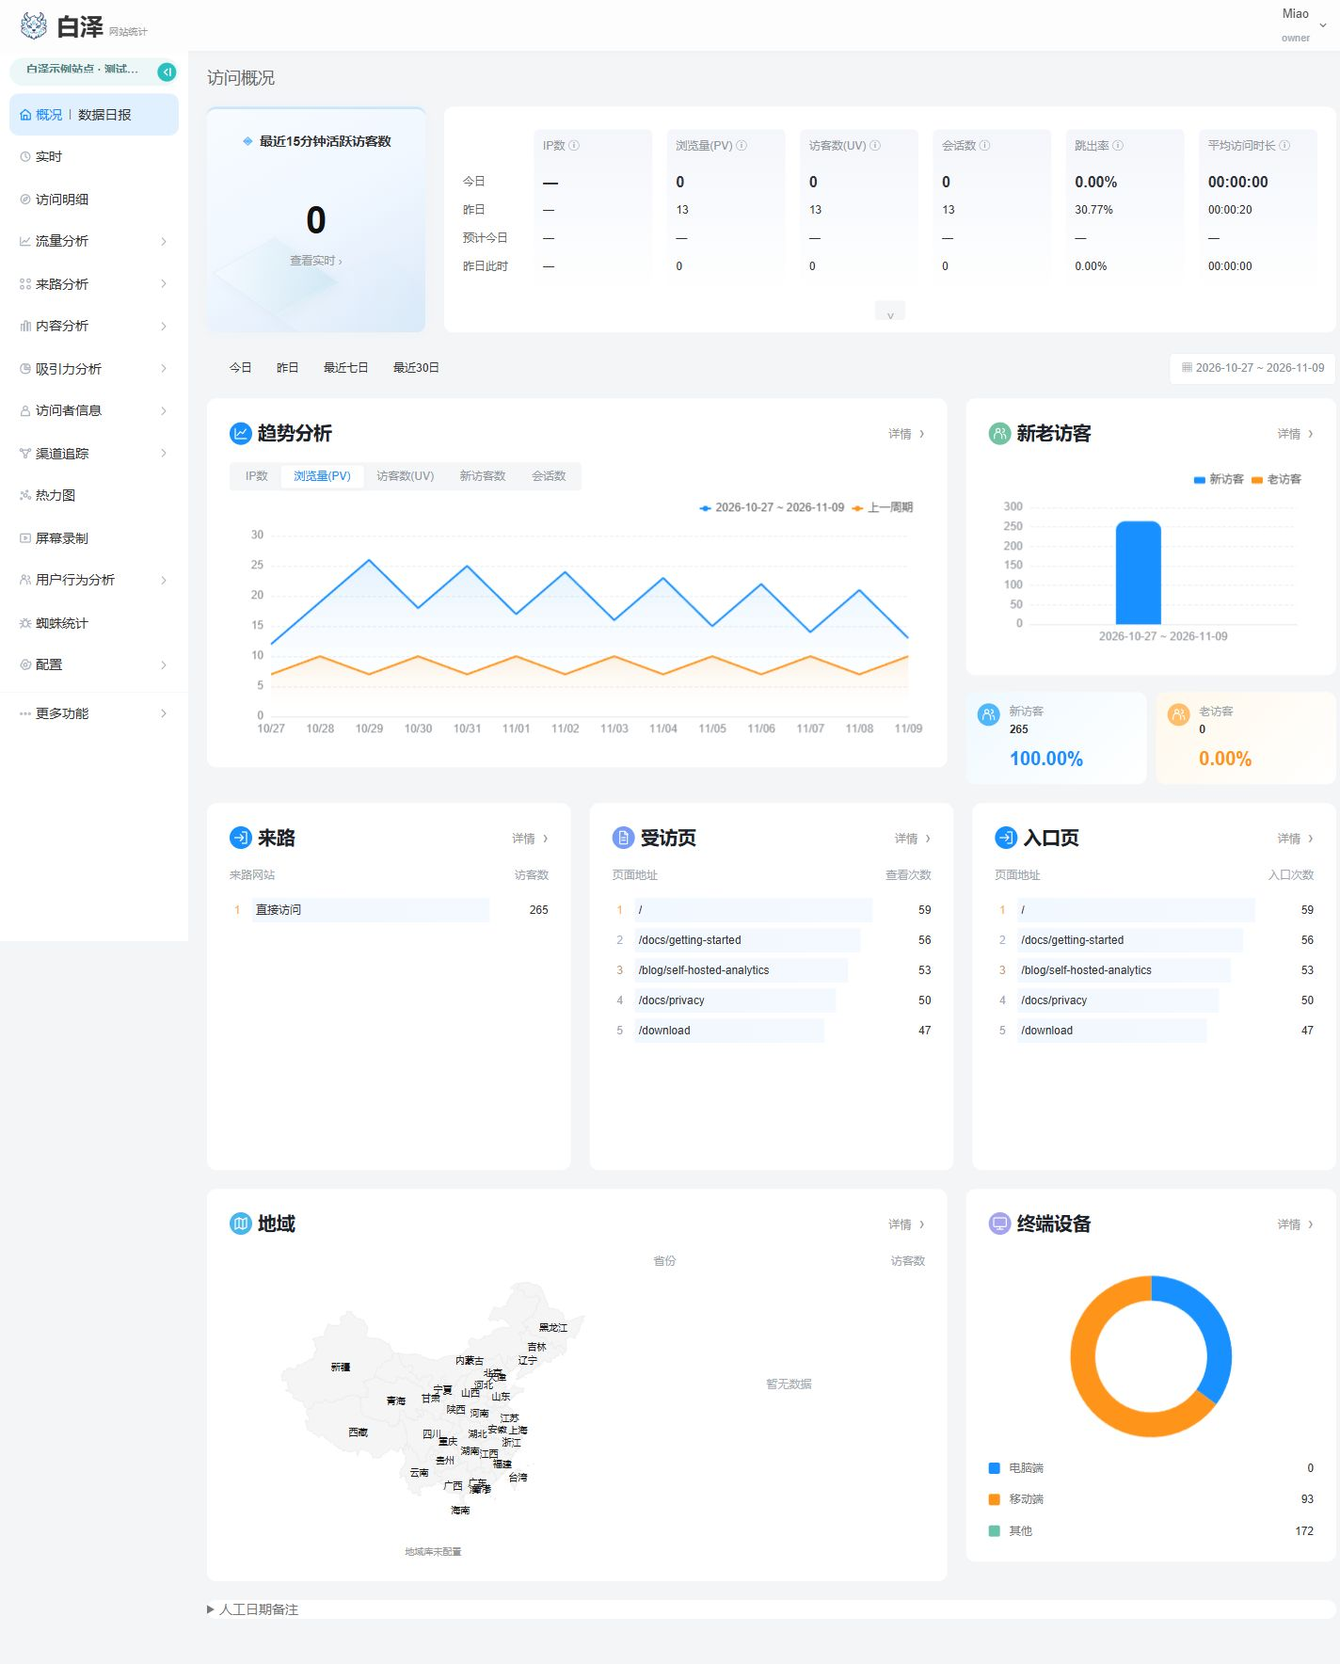
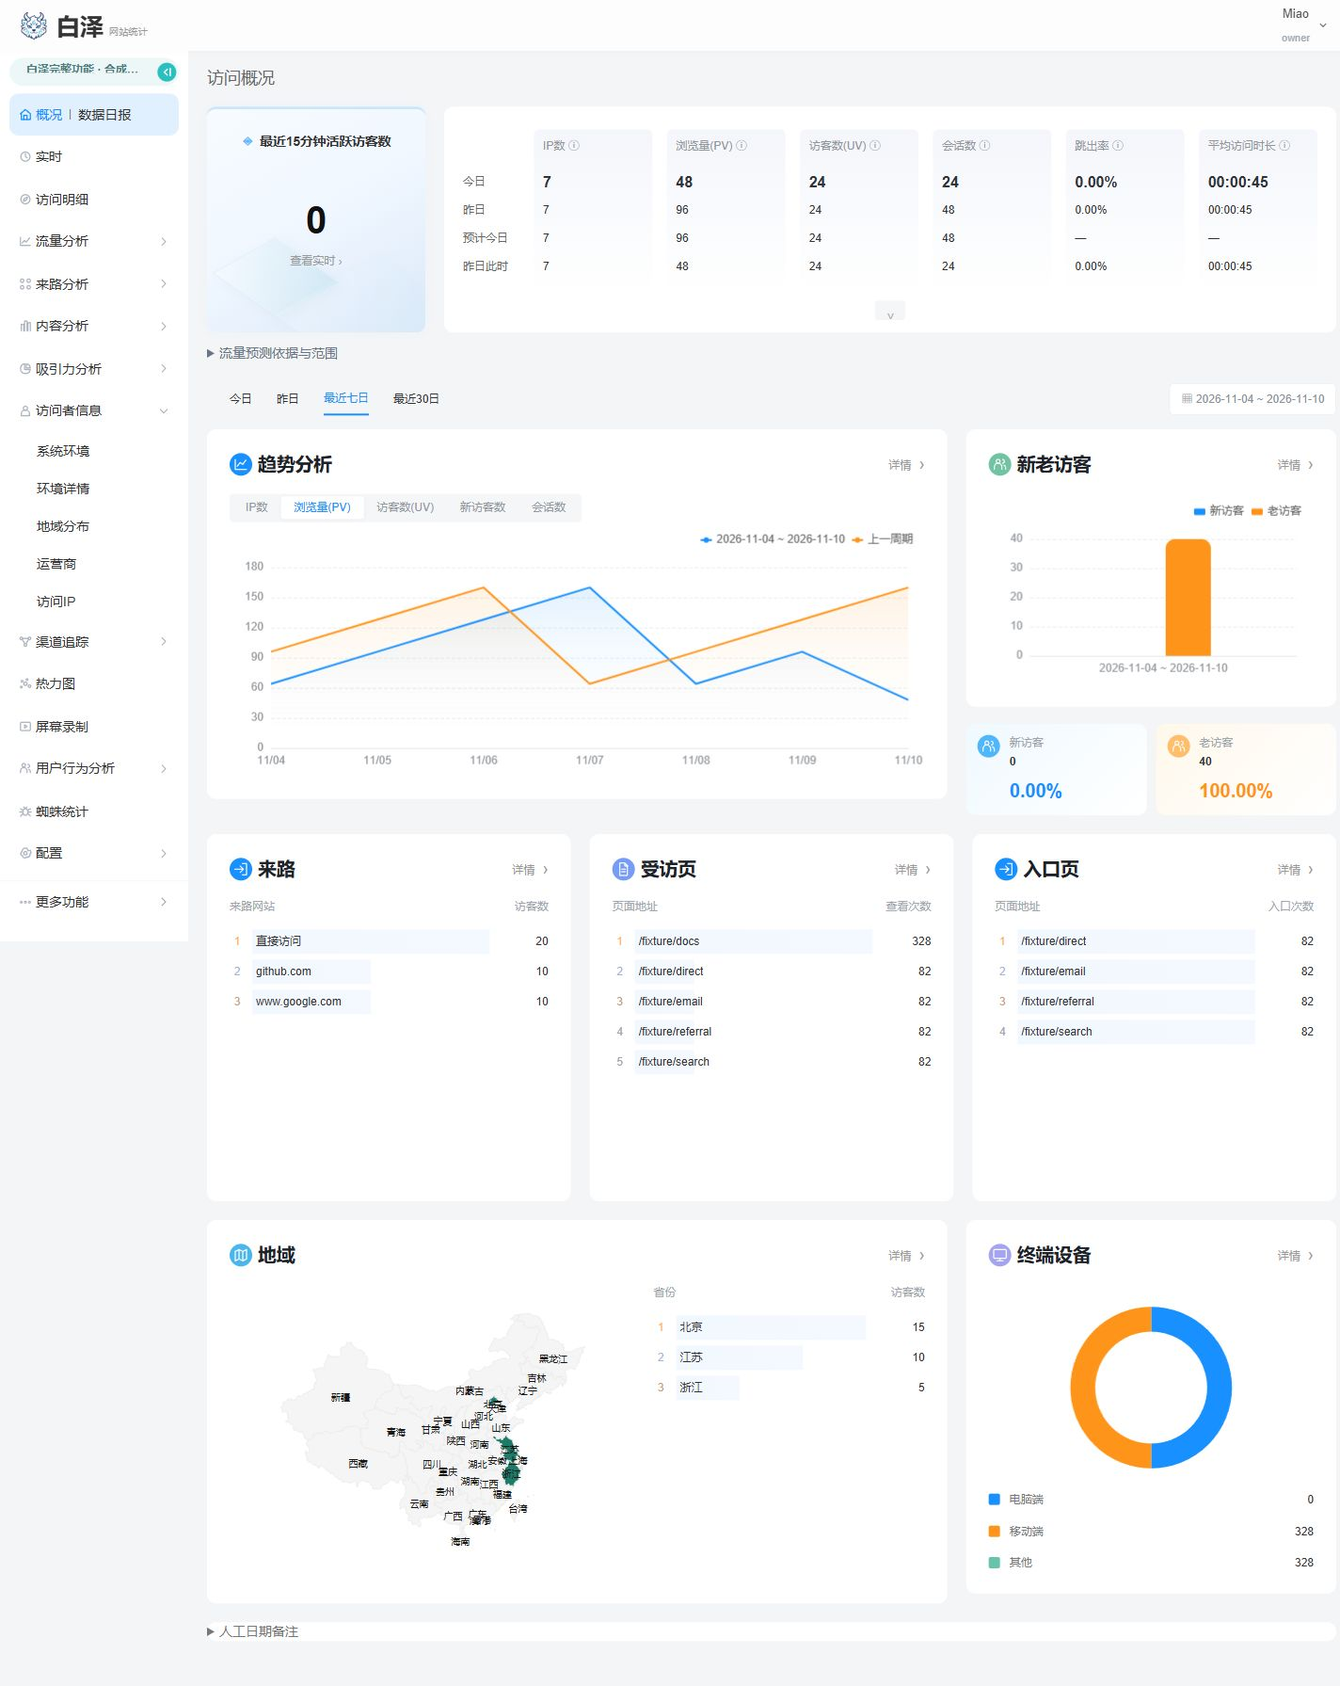
docs: record NAS traffic acceptance and refresh dashboard screenshots

diff --git a/docs/validation/51LA_COMPLETION_NAS_20261110.md b/docs/validation/51LA_COMPLETION_NAS_20261110.md
@@ -1,0 +1,133 @@
+# 流量功能补全：NAS 验证记录
+
+日期：2026-11-10，时区 Asia/Shanghai。对象为 NAS SSD 上的 Node 标准版测试实例。本记录对应独立 IP、离线地域与运营商、流量预测、事件定义和蜘蛛日志补全；[上一轮验证记录](51LA_NAS_20261110.md)保留原版本的事实，不作为本轮结果。
+
+应用、PostgreSQL、Redis 数据及 Docker 数据目录均在 `/volume2`。只读反向块设备核查确认该卷经 LVM、`md2` 和 `nvme1n1p2` 位于 **ZHITAI TiPlus7100s 1TB NVMe SSD**，`ROTA=0`，文件系统 ext4。修改前已生成数据库与应用状态备份，数据库备份目录可正常读取。
+
+## 数据来源与隔离
+
+新增一个明确命名为“合成验收（socket 模拟）”的独立站点。测试通过实际 `registerCollect` 入口、Fastify `inject` 的 `remoteAddress` 和已安装的离线地域库写入 PostgreSQL，由运行中的正常聚合流程生成统计。没有替换报表返回，也没有给已有两个站点写入测试事件。
+
+这是模拟连接地址的功能验收，不是真实互联网访客。测试没有访问样本公网 IP；这些 IP 的地域是当前离线库的查询结果，不是对实际访客位置的确认。采集实例使用 `trustProxy=false`，不启用受信代理；同时传入的伪造转发头不影响采集地址。独立采集进程不启动 HTTP 监听、迁移或额外后台 worker。
+
+| 合成数据 | 实际保存 / 独立预期 |
+| --- | ---: |
+| 日期 | 2026-10-27 至 2026-11-10，14 个完整历史日加今日 |
+| 全部事件 | 2,728 |
+| 浏览量 PV | 1,552 |
+| 访客 UV | 40 |
+| 独立 IP | 7 |
+| 会话 | 776 |
+| 今日 PV / UV / IP / 会话 | 48 / 24 / 7 / 24 |
+| 自定义事件 `download_fixture` | 400 |
+
+UV、IP 和维度期望值从输入事件独立按集合计算，不通过累加各小时或各日 UV/IP 得到。样本含 IPv4、IPv6，以及映射 IPv4 的 IPv6 表示；同一规范地址合并为一个 IP。
+
+## 第一轮实际接口检查
+
+执行时间约为 08:25，首轮应用镜像前缀为 `0f3a5d6e`。25 项定向检查中 21 项通过、4 项失败。4 项失败均涉及通用 `stats` 的 `ips` 未返回：全区间、上一周期、渠道过滤，以及蜘蛛写入前后的访客统计核对。独立流量报表和概况已返回精确 IP；后续修复同时覆盖旧汇总与已发布事实两种统计来源。最终部署的 26 项 HTTP 重跑已全部通过，包含这四项首次失败用例。
+
+本轮首次检查中已通过的内容包括：
+
+- 离线 IPv4 / IPv6 地域库就绪；国家、省、市与运营商按实际库结果展示。未知运营商保留未知，覆盖状态如实返回 `partial`。
+- 全区间与逐日 PV、UV、IP、会话，以及来源、地域、运营商等七组维度，与独立期望一致。
+- 访问明细的 IP、城市、运营商和访客筛选；规范化 IP 合并；接口不返回内部 HMAC 身份。
+- 五种维度的指定标签趋势；等长周期比较接口；概况今日、昨日、昨日同期边界。
+- 事件定义新增、改名、删除、重新创建和跨登录持久化。显示名称改变后，采集标识仍为 `download_fixture`，历史 400 条事件不变；删除定义不删除事件。
+- 只读令牌可读目标站点，不能创建、修改或删除事件定义，不能跨站或修改地域设置。测试令牌在结束后撤销，撤销后访问返回 401。
+
+预测在 08:25 的已验证结果为 **96 PV、24 UV、7 IP、48 会话**，使用 14 个完整历史日，`coverage=1`。返回算法为 `historical_remaining_v1`，与独立输入计算结果一致。它验证算法执行和数据来源，不验证预测对未来真实流量的准确率；参考区间为 `heuristic_not_calibrated`，不是经过校准的置信区间，也不是 51.LA 未公开的算法。
+
+交叉检查另外发现：分别预测四项指标时，不同同期增长倍数可能使预计 UV、IP 或会话数超过预计 PV。修复对预计值和区间上下限施加一致的 PV 上限，同时保持不低于今日实测值；两项新增单元回归覆盖点估计及仅区间越界，相关预测与概况测试 43 项通过。普通 NAS 样本的预测结果不受这项边界修正影响。
+
+概况日历与预测训练已统一取自然日最早可表示日界，和前端日期选择一致。Havana 的重复午夜包含第一个小时；昨日同期若重复则选较早时刻，若不存在则向前经过夏令时间隙。新增 helper 与 Fastify 路由回归覆盖 Havana 首个午夜小时、纽约重复及跳过的同期时间；预测与概况两文件最终 **48 项通过**，全项目类型检查及相关文件 ESLint 通过。
+
+## 蜘蛛日志
+
+独立站点通过带签名的实际 HTTP 日志接口提交了 7 条合成蜘蛛日志，归属 Google、Baidu、Bing、OpenAI、Anthropic，共 5 个独立 IP 和 4 个路径。它们是 User-Agent 声明测试，不表示已验证真实引擎身份。
+
+首次调用已验证坏签名返回 401、浏览器 Origin 请求返回 403；重复提交计为 7 条重复而不增加日志数；同 ID 改内容返回冲突。查询参数、fragment 和 URL 用户信息不会进入保存路径，明细不返回原始 IP、UA 或内部身份。最终部署后整组重跑通过，日志仍为 7 条、5 个 IP、4 个路径，访客 PV、UV、IP 和会话计数均保持不变。
+
+## 新老访客与自动刷新修复
+
+对原始事件首次时间及持久 `first_seen` 逐项核对：40 位访客全部有正确的首次日期，缺失 0、日期不一致 0；聚合代次已追平，未见 worker 错误。11 月 4 日至 10 日的新鲜接口响应为 40 位老访客、0 位新访客、0 位未知访客。
+
+浏览器曾保留采集尚在进行时的“10 位老访客、30 位未知访客”。原因是概况摘要每 30 秒刷新，而新老访客所属的流量报表未随计时器刷新。修复后概况的当前报表、上一周期报表和地域报表共用手动刷新与计时器信号，隐藏标签暂停定时读取；请求取消后晚到的结果不能覆盖新数据，切站、切日期和卸载保持取消行为。
+
+新增 4 项 effect/request 回归与既有 6 项概况语义用例，共 **10 / 10 通过**；全项目 TypeScript 类型检查通过，三个相关文件 ESLint 通过。定时、取消和响应先后用可控请求测试，不将此结果等同于真实浏览器视觉验收。
+
+## 原有数据保留
+
+在新站点采集、事件定义写入、蜘蛛日志和权限检查后，重新读取原有两个站点的数量与内容摘要：
+
+| 原有数据 | 操作前 | 操作后 | 内容摘要 |
+| --- | ---: | ---: | --- |
+| 站点 | 2 | 2 | 一致 |
+| 事件 | 716 | 716 | 一致 |
+| 事件去重键 | 716 | 716 | 一致 |
+
+716 是全部类型事件数，不是 PV。独立合成站点不计入此对照；原站点的身份、域名、时区及事件内容均保持一致。最终部署和 HTTP 重跑后，08:56:55 再次读取的三个摘要均与采集前基线完全一致。
+
+## 本地测试与真实 PostgreSQL 回归
+
+本地 08:53 的最终定向重跑为 **19 个文件、158 项通过**，日志为 `.baize/nas/completion-unit-final.log`。范围包括概况自动刷新、筛选分页、预测一致性和 DST 日界、维度对比长尾与完整日历对齐。全项目 TypeScript 类型检查和 ESLint 均通过。这是一次实际重跑的总数，不是将早先 140 项、145 项或单独回归重复累加。最终功能源码冻结提交为 `19b171f`，前序功能提交为 `cbd5936`。
+
+NAS 上使用真实 PostgreSQL、独立临时 schema 执行三组测试：
+
+| 测试入口 | 实际通过 | 跳过 | 退出码 |
+| --- | ---: | ---: | ---: |
+| `network-ip-reports.test.ts`（含对比长尾补充） | 11 | 0 | 0 |
+| `bot-visit-log.test.ts`（含隐私补充回归） | 10 | 0 | 0 |
+| `51la-reports.test.ts` | 5 | 0 | 0 |
+| 合计 | 26 | 0 | — |
+
+独立 IP 用例包含标准 HTTP 查询、过滤、部分小时、跨历史集合去重、原始事件过期和删除；蜘蛛用例包含签名、重试去重、冲突、权限、隐私字段和限流；既有流量报表回归验证时期边界、会话、删除记录和历史事实。蜘蛛补充回归确认只有蜘蛛日志的站点同样受到历史身份模式保护，隐私模式下不返回历史网段或独立 IP。三组执行前后的 public 数据数量与摘要均一致，临时测试 schema 均清理。早先蜘蛛套件为 8 项，补齐两个隐私用例后的 10 项已重新完整执行，按最终 10 项计数，未将重复执行累加。
+
+三组原始记录分别为本地 `.baize/nas/ip-metrics/`、`bot-privacy-review/`、`51la-report-regression/` 下的 `result.json` 和 `output.txt`。最终三组公共数据基线均为 3 站 3,444 事件；早先 8 项蜘蛛执行在合成站点建立前，基线为 2 站 716 事件。
+
+早先 Windows 全量测试尝试为 112 个文件的 642 项通过、另 10 个文件的 59 项失败，失败涉及 Linux `flock`、`/tmp`、文件权限以及旧 SQL 的 CRLF 校验摘要。这里保留该次失败事实；本轮定向通过与 NAS 数据库回归不等于全仓库全套测试通过。
+
+## 最终部署检查
+
+最终功能源码为 `19b171f`，实际运行镜像：
+
+```text
+sha256:6a24156a5220f217d7858f00b59258b6d4dc20110bf6f2d4d3ad449a04ebdec4
+```
+
+健康接口返回 200，数据库与地域库均为 `ready`。08:56:42 至 08:56:50 的实际 HTTP 重跑为 **26 项通过、0 项失败**，记录 54 次 API 请求；登录和退出另由会话客户端处理。重跑使用同一组合成数据，没有重复创建站点或重写历史事件，临时只读令牌已撤销。
+
+| 最终验收 | 结果 |
+| --- | --- |
+| 全区间统计与原始流量报告 | 1,552 PV、40 UV、7 IP、776 会话，覆盖率 1 |
+| 七个维度与逐日去重 | 与独立输入逐组一致，不累加小时或每日 UV/IP |
+| 首次访问与访问明细 | 40 位访客均有真实采集得到的首次日期；IP、城市、运营商和访客筛选通过 |
+| 标签趋势及等长对比 | 五种指定标签趋势与两期各自的独立 UV/IP 集合一致 |
+| 今日及预测 | 今日 48 / 24 / 7 / 24；预测 96 / 24 / 7 / 48；14 个历史日完整覆盖 |
+| 预测区间一致性 | 上下限包含点估计，不低于今日实测，身份与会话预测不超过 PV 对应值 |
+| 蜘蛛实际 HTTP 上报 | 7 条日志、5 IP、4 路径；签名、Origin、重试、冲突、清洗及访客统计不变均通过 |
+| 事件定义与权限 | 显示名称跨登录持久化，历史 400 个事件保留；只读、跨站、匿名和撤销检查通过 |
+| 原有数据最终摘要 | 原 2 站、716 事件和 716 去重键与操作前一致 |
+
+最终 API 记录为 `.baize/nas-completion-api-report.json`，首次失败记录另存为 `.baize/nas-completion-api-report-initial.json`；最终数据保留记录为 `.baize/nas-completion-baseline-report.json`。
+
+## 浏览器与截图
+
+通过 Computer Use 在真实登录后的 NAS 页面验证了省市和运营商筛选、独立 IP 访问明细、日期对比、事件新增/编辑/取消删除/删除、蜘蛛引擎筛选、新老访客柱状/折线切换、互动度指标、设备品牌与色深、CSV 下载及手机导航抽屉。临时事件定义验收后删除，保留原有合成事件定义。
+
+最终镜像重新验收地域筛选与 IP 趋势、固定项目的历史对比、蜘蛛日志单一服务端分页与引擎筛选，以及概况的 IP、预测和 40 位老访客分类。浏览器加载最终构建资源 `index-HcE9EAZ6.js`，控制台错误为 0。
+
+| 浏览器宽度 | 文档可用宽度 | 文档滚动宽度 | 结果 |
+| ---: | ---: | ---: | --- |
+| 320 | 305 | 305 | 无页面横向溢出 |
+| 390 | 375 | 375 | 无页面横向溢出 |
+| 1024 | 1009 | 1009 | 无页面横向溢出 |
+| 1440 | 1425 | 1425 | 无页面横向溢出 |
+
+宽明细表在自身容器内滚动。测试结束已恢复浏览器默认视口。README 桌面和手机图片均替换为最终镜像的真实截图，实际像素与 SHA-256 见 [图片说明](../images/README.md)。浏览器操作记录位于本地 `.baize/nas/completion-ui/result.json`；不把截图当成接口、数据正确性或性能测试的替代。
+
+## 证据与范围
+
+本轮原始证据位于本地忽略目录 `.baize/nas-completion-*.json`，包括输入 fixture、采集结果、第一轮 API 结果、首次访问核对与原有数据基线。凭据、令牌、私有服务地址、访客身份和原始 API 返回不在本文发布。公开的算法和权限回归位于 `tests/unit/traffic-forecast.test.ts`、`event-management.test.ts`、`51la-reports.test.ts`、`web-overview-refresh.test.ts`；真实 PostgreSQL 集成入口包括 `network-ip-reports.test.ts`、`bot-visit-log.test.ts`、`51la-reports.test.ts`。
+
+本记录没有新的吞吐量、延迟上限或预测准确率结论。它不代表 Node Lite、独立 PHP 版同步支持新增报表，也不代表还原了 51.LA 的私有服务端或云端功能。

diff --git a/docs/images/README.md b/docs/images/README.md
@@ -1,29 +1,31 @@
 # 当前界面截图
 
-拍摄日期：2026-11-10（Asia/Shanghai）。运行环境为 Linux NAS 固态硬盘上的 Node 标准版、PostgreSQL 17 和 Redis 7。截图展示本次白色流量工作台及手机布局。
+拍摄日期：2026-11-10（Asia/Shanghai）。运行环境为 NAS 固态硬盘上的 Node 标准版、PostgreSQL 17 和 Redis 7。截图展示真实登录后的桌面流量工作台与手机概况。
 
-运行中的最终应用镜像：
+本批截图的运行镜像：
 
 ```text
-sha256:057e73aa7946a115c8d724ada03fef5c4d59e1c2a01dc2dc6c62d90bd42264e7
+sha256:6a24156a5220f217d7858f00b59258b6d4dc20110bf6f2d4d3ad449a04ebdec4
 ```
 
-| 图片 | 拍摄时浏览器视口 | JPG 实际像素 | 内容 |
+构建源码提交：`19b171f79c45daf2b7f8a46bed19fb4d3c71cd34`。
+
+| 图片 | 浏览器视口 | JPG 实际像素 | 内容 |
 | --- | --- | --- | --- |
-| [baize-desktop.jpg](baize-desktop.jpg) | 1440 × 1000 | 1424 × 1768 | 桌面访问概况，全页截图 |
-| [baize-mobile.jpg](baize-mobile.jpg) | 390 × 844 | 375 × 812 | 手机访问概况，首屏截图 |
+| [baize-desktop.jpg](baize-desktop.jpg) | 1440 × 1000 | 1424 × 1791 | 桌面概况，全页截图 |
+| [baize-mobile.jpg](baize-mobile.jpg) | 390 × 844 | 375 × 812 | 手机概况，首屏截图 |
 
-浏览器视口与导出图片的实际像素分别列出，不将两者混为一项。图片 SHA-256 按仓库中的最终 JPG 文件计算。
+浏览器视口与图片实际像素分别记录。图片未替换接口、注入样式或后期修改页面内容。
 
-截图来自真实登录后的界面，没有替换统计接口、注入样式或后期修改页面内容。演示站点标注了“测试数据”，合成事件通过实际采集接口写入，再由后端生成报表；这些数值不代表正式网站流量。
+演示站点明确标注“合成验收（socket模拟）”。固定输入通过真实采集处理器写入独立测试站点；公网样例地址作为模拟连接地址提供，用于验证 IPv4、IPv6、去重和离线地域查询，没有把这些数值作为真实网站访客或实际地理位置。
 
-下方趋势图选择 2026-10-27 至 2026-11-09，共 14 天：265 次浏览、265 位访客，上一等长区间为 119 次浏览。概况顶部按站点日历单独计算今日、昨日与昨日此时。手机截图选中顶部“昨日”，显示 13 次浏览、13 位访客；下方趋势图仍保持上述 14 天范围，两处属于不同统计周期。
+桌面下方选中 2026-11-04 至 2026-11-10，概况顶部按站点日历单独计算今日、昨日、预计今日及昨日同期。手机首屏选择“今日”。独立 IP、运营商和预测已接真实统计逻辑，地域库状态为 ready。预测是白泽独立实现的历史同期估算，展开依据可查看样本和参考范围。
 
-独立 IP 未采集，预计今日未计算，因此对应指标显示“—”。最终镜像上的地图轮廓已在桌面、手机及恢复视口后正常显示；地域库仍未配置，地域统计保持未知，未填入模拟地理分布。截图不代表所有报表或其他运行版本都已完成验证；接口、数据保存、浏览器检查与未验证范围见 [流量工作台 NAS 验证记录](../validation/51LA_NAS_20261110.md)。
+原有站点没有完整 IP 标识的旧记录仍显示不可用；没有为旧记录补造 IP 或地域。完整的输入、测试范围、数据保留与运行检查见 [本轮 NAS 验收记录](../validation/51LA_COMPLETION_NAS_20261110.md)。
 
 图片 SHA-256：
 
 ```text
-e707ac99f43f29aa6aa97d948aa12ef6a8e79f64c230ed6ecad3bb8e18426149  baize-desktop.jpg
-5672f7ea3fd105261c8120f5a7f92eb02f5195944e9360002022edcbbea0b7be  baize-mobile.jpg
+81de8fa60e91b989ee41ac3c1896fb3241de777142f5c1d6b900d1977fabbd82  baize-desktop.jpg
+3d870a2f947346539b78baf29d74b8c877a5dbabd8ddc5a16397c932eea4cea1  baize-mobile.jpg
 ```

diff --git a/docs/STATUS.md b/docs/STATUS.md
@@ -1,8 +1,14 @@
 # 白泽当前状态
 
-更新时间：2026-10-16 UTC。本页随源码版本说明实现及边界；交付 SHA、远端 main、实际测试次数、包体 bytes/SHA256 和平台结果，以同批发布清单及验收报告为准。旧状态原文完整保存在 [历史状态](archive/validation/STATUS_HISTORY_20261012.md)，不改写失败或累加不同源码测试次数。
+更新时间：2026-11-10（Asia/Shanghai）。本页随源码版本说明实现及边界；交付 SHA、远端 main、实际测试次数、包体 bytes/SHA256 和平台结果，以同批发布清单及验收报告为准。旧状态原文完整保存在 [历史状态](archive/validation/STATUS_HISTORY_20261012.md)，不改写失败或累加不同源码测试次数。
 
-## 本轮新增
+## 2026-11-10：流量工作台补全
+
+Node 标准版增加独立 IP 去重、离线 IPv4/IPv6 地域与运营商、流量预测、事件定义管理、蜘蛛访问日志，以及来源、环境和 IP 的日期对比。后台使用白色流量工作台，手机导航和报表单独适配；旧截图与旧版界面记录不代表当前页面。
+
+配置方法见 [地域与流量补全](TRAFFIC_DATA_SETUP.md)，接口及运行范围见 [流量工作台说明](51LA_ALIGNMENT.md)。本轮 NAS 部署、独立合成验收、原站点保留、实际测试数量和失败边界统一记录在 [本轮验收](validation/51LA_COMPLETION_NAS_20261110.md)。Node Lite、PHP 和其他历史模块的实现范围保持各自记录，不将本次 Node 标准版验收扩展成全产品验证。
+
+## 2026-10-16 历史批次
 
 PR2青玉／墨玉UI保留原结构和能力，修复两端对比、未完结提示、主题同步及分享／邀请作用域；另修PHP CSP兼容与关联可读性。专项6组、原Node／Lite5组、PHP两主题各94状态及HTTP29项通过，见 [PR2集成验收](PR2_JADE_UI_INTEGRATION_20261016.md)。本轮584单测通过，后端接口与数据库模型未改。
 
